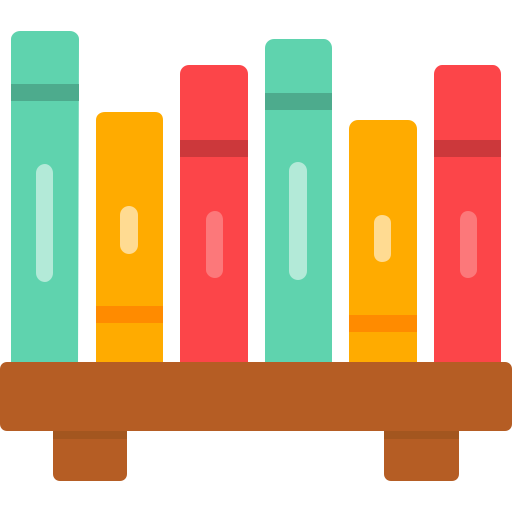
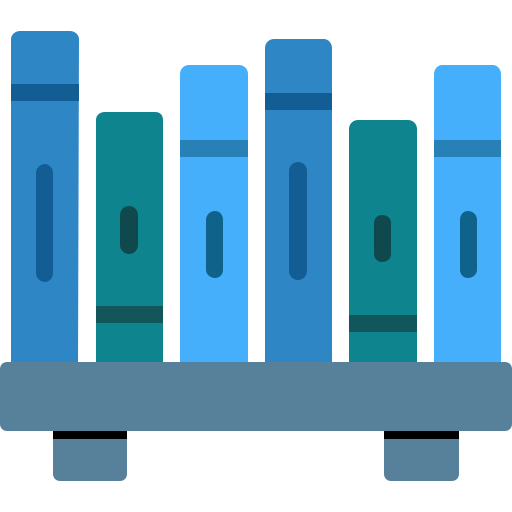
bookshelf changed

diff --git a/Frontend/src/screens/StudyRoom.jsx b/Frontend/src/screens/StudyRoom.jsx
@@ -108,9 +108,9 @@ export default function StudyRoom() {
                     x2="100%"
                     y2="0%"
                   >
-                    <Stop offset="0%" stopColor="cyan" />
-                    <Stop offset="50%" stopColor="orange" />
-                    <Stop offset="100%" stopColor="red" />
+                    <Stop offset="0%" stopColor="#00416A" />
+                    <Stop offset="50%" stopColor="#007791"/>
+                    <Stop offset="100%" stopColor="#005A9C" />
                   </LinearGradient>
                 </Defs>
                 <Path
